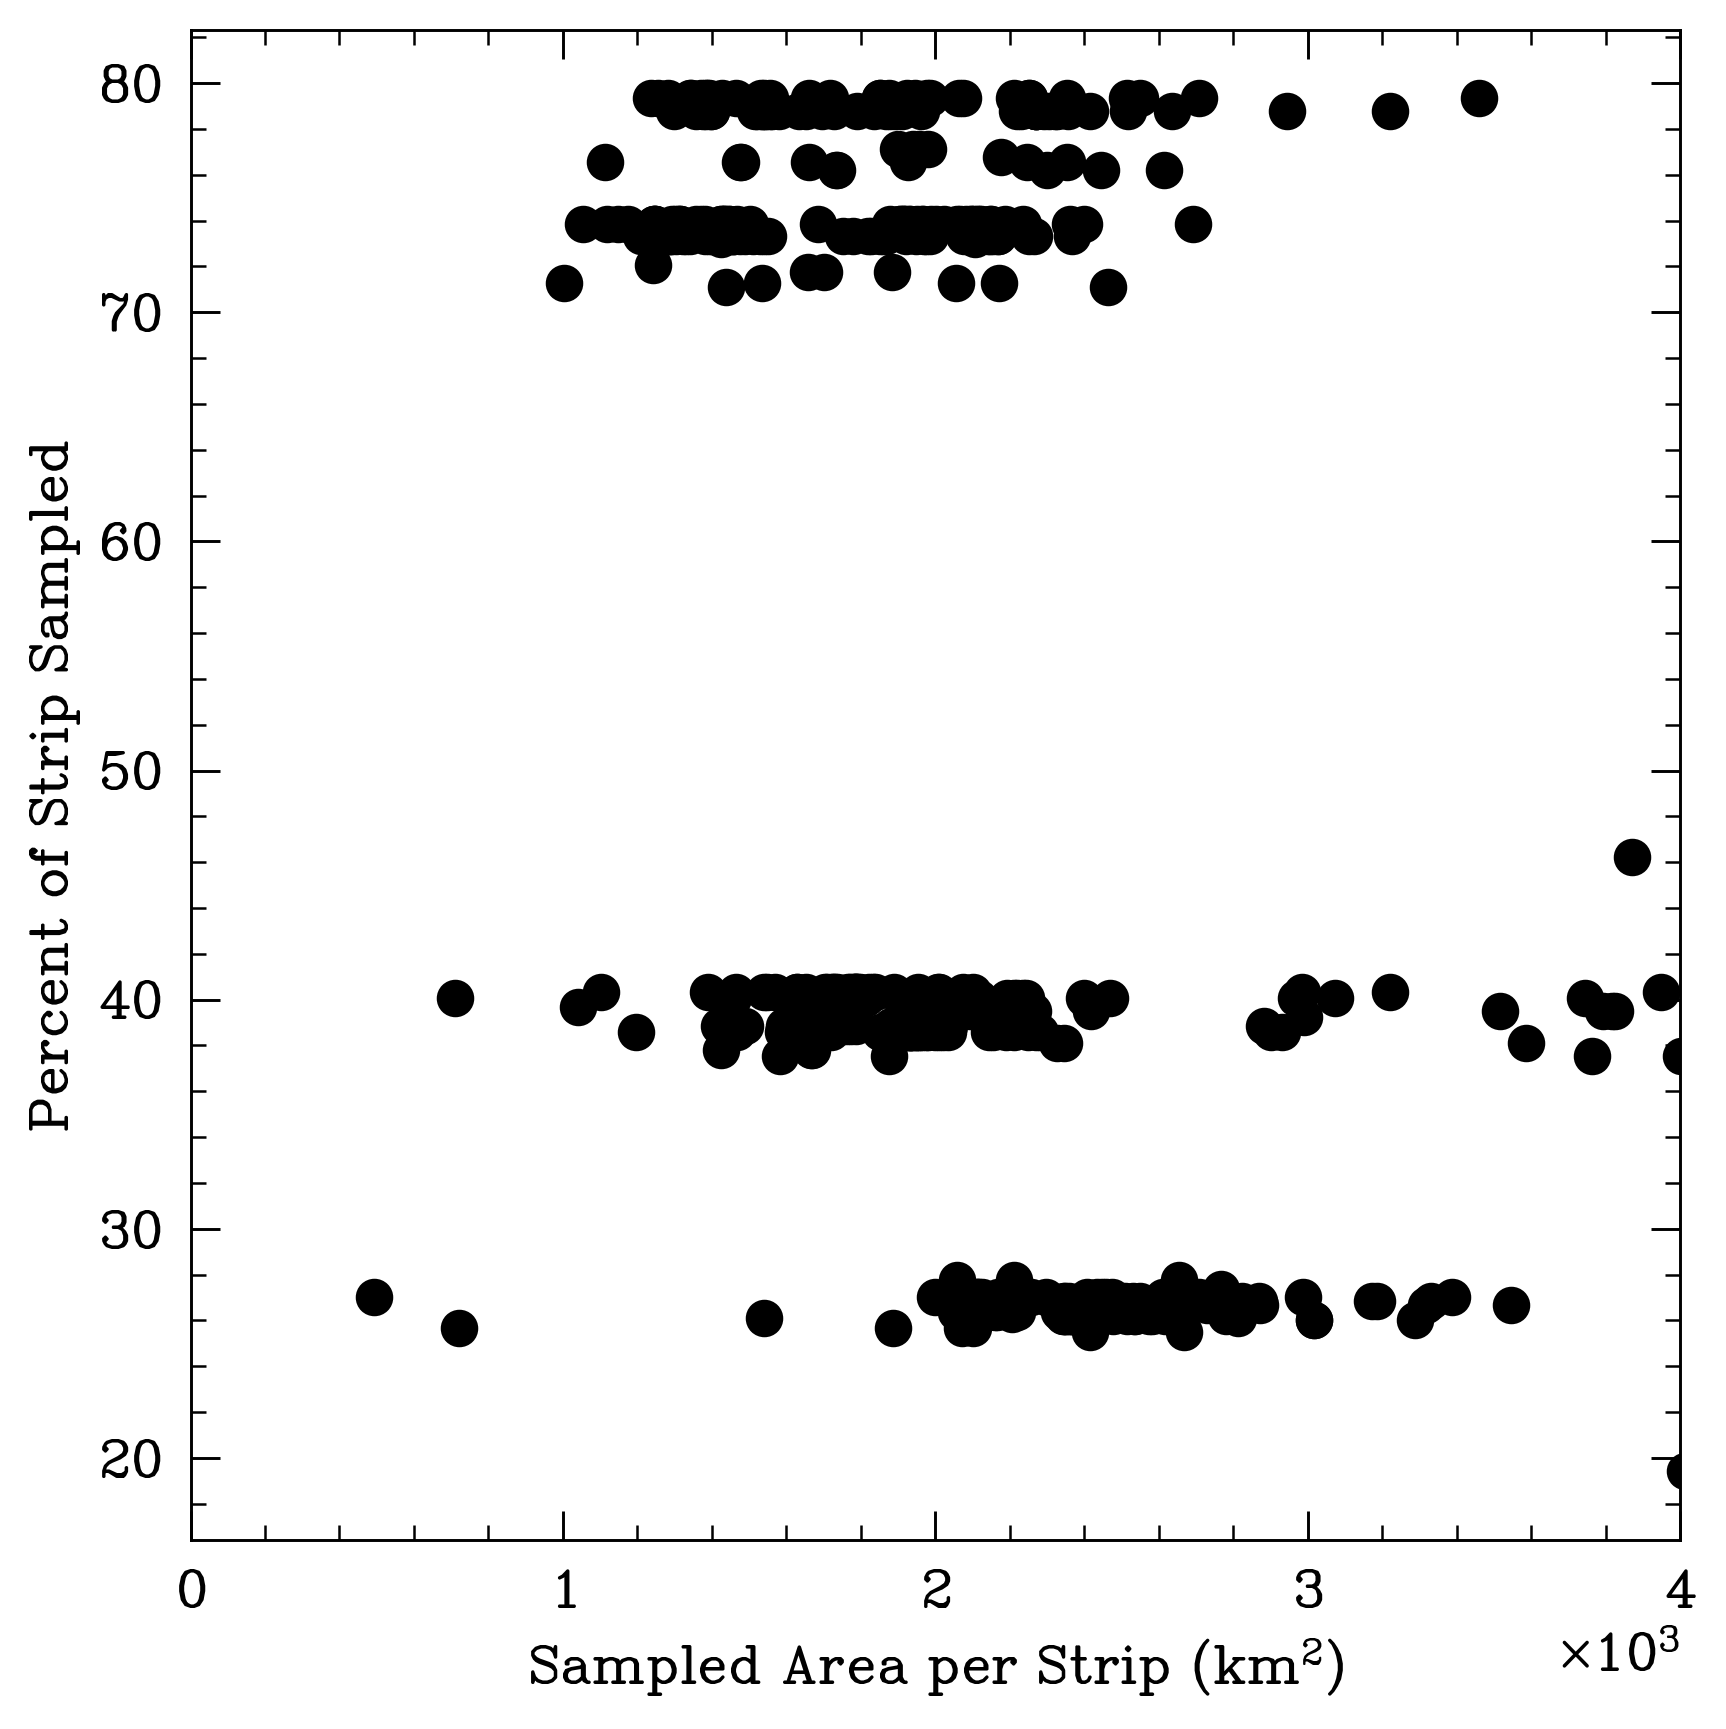
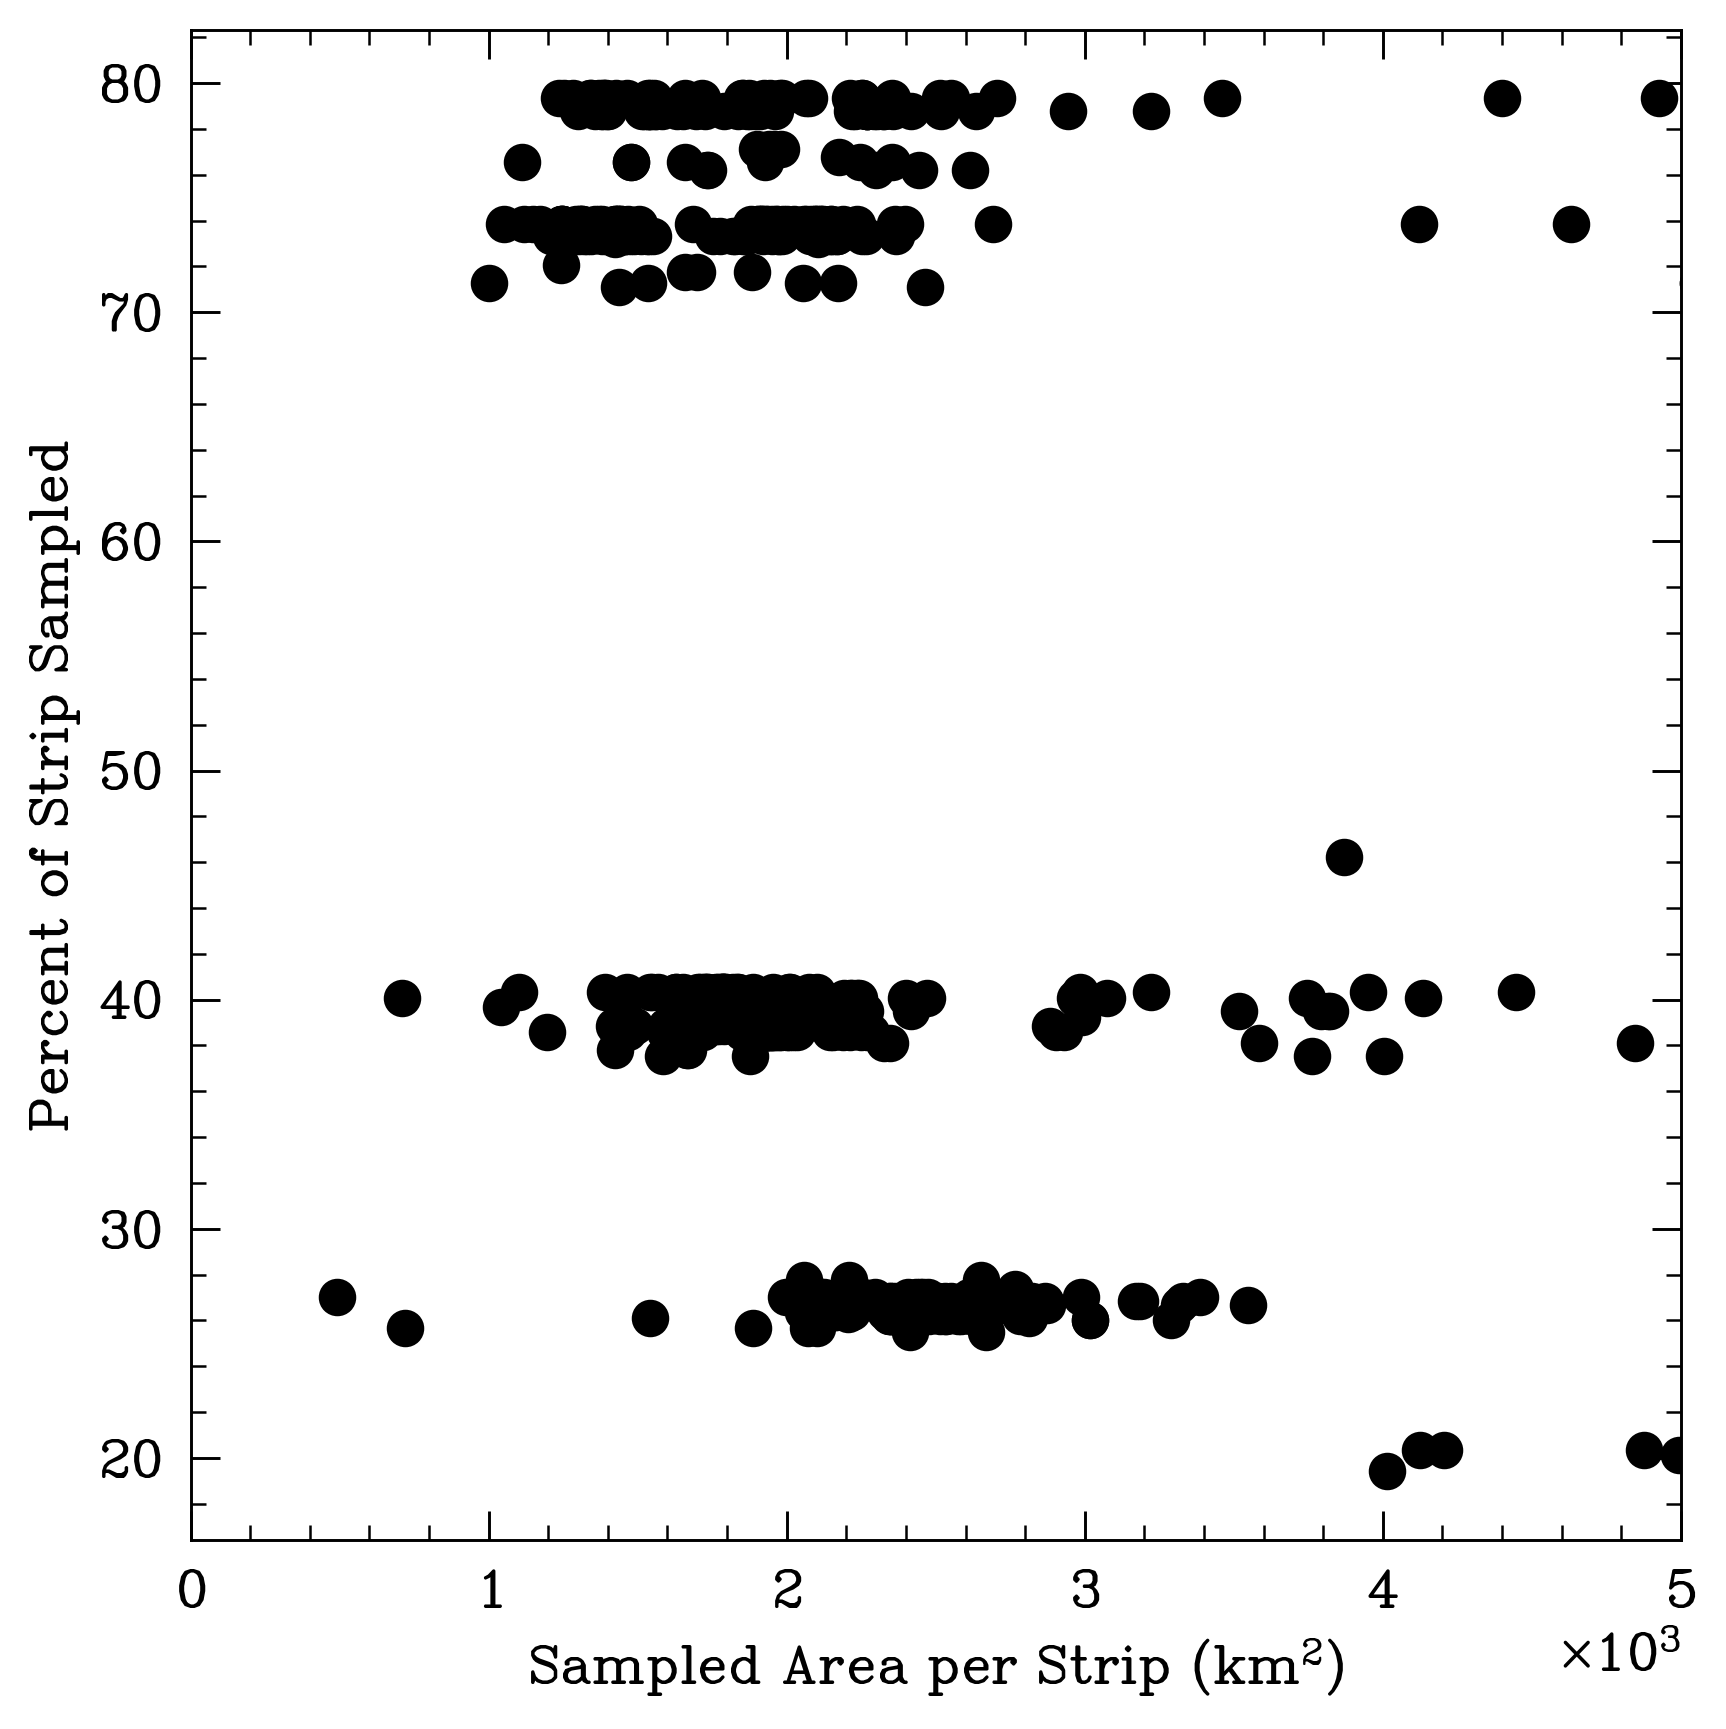
edge detection

diff --git a/code/monthly/feb2025/adjust_cloudcover_percent.py b/code/monthly/feb2025/adjust_cloudcover_percent.py
@@ -1,0 +1,89 @@
+def edge_detection(image_path, output_dir): 
+    import os 
+    import cv2
+    import numpy as np
+    import matplotlib.pyplot as plt
+
+    # Load the image
+    def detect_black_edges(image_path):
+        image = cv2.imread(image_path, cv2.IMREAD_GRAYSCALE)
+        
+        # Check if image was loaded correctly
+        if image is None:
+            raise ValueError("Error: Unable to load image. Check file path.")
+        
+        # Convert image to binary using adaptive thresholding
+        _, binary_adaptive = cv2.threshold(image, 0, 255, cv2.THRESH_BINARY + cv2.THRESH_OTSU)
+
+        # Find contours of the largest non-black region
+        contours, _ = cv2.findContours(binary_adaptive, cv2.RETR_EXTERNAL, cv2.CHAIN_APPROX_SIMPLE)
+        
+        # Handle case where no contours are found
+        if not contours:
+            plt.figure(figsize=(6, 6))
+            plt.imshow(binary_adaptive, cmap='gray')
+            plt.title("No contours found. Check thresholding.")
+            plt.show()
+            raise ValueError("No contours detected. Check image content or thresholding.")
+        
+        # Find bounding box of the largest contour (assuming it's the image content)
+        largest_contour = max(contours, key=cv2.contourArea)
+        x, y, w, h = cv2.boundingRect(largest_contour)
+
+        # Refine left edge detection using a moving window approach
+        col_sums = np.sum(binary_adaptive, axis=0)  # Sum along columns
+
+        # Define a more strict threshold to avoid stopping on small bright areas (e.g., text)
+        threshold = np.max(col_sums) * 0.3  # Adjust to be stricter
+        left_edge = x  # Default to bounding box edge
+        for i in range(x, len(col_sums)):  # Start searching from initial left bound x
+            if col_sums[i] > threshold:  # Find first column where intensity sum exceeds threshold
+                left_edge = i
+                break
+
+        # Keep right, top, and bottom edges as detected
+        right_edge = x + w
+
+        # Adjust vertical bounds based on the further one from the image border
+        img_height = image.shape[0]
+        top_distance = y  # Distance of detected top edge from image top
+        bottom_distance = img_height - (y + h)  # Distance of detected bottom edge from image bottom
+        max_distance = max(top_distance, bottom_distance)
+        top_edge = max_distance
+        bottom_edge = img_height - max_distance
+
+        return left_edge, right_edge, top_edge, bottom_edge
+
+    # Path to the uploaded image
+    left_edge, right_edge, top_edge, bottom_edge = detect_black_edges(image_path)
+
+    # Load image for visualization
+    image_color = cv2.imread(image_path)
+    cv2.line(image_color, (left_edge, 0), (left_edge, image_color.shape[0]), (0, 0, 255), 2)  # Left edge
+    cv2.line(image_color, (right_edge, 0), (right_edge, image_color.shape[0]), (255, 0, 0), 2)  # Right edge
+    cv2.line(image_color, (0, top_edge), (image_color.shape[1], top_edge), (0, 255, 0), 2)  # Top edge
+    cv2.line(image_color, (0, bottom_edge), (image_color.shape[1], bottom_edge), (255, 255, 0), 2)  # Bottom edge
+
+    # Display result
+    plt.figure(figsize=(8, 8))
+    plt.imshow(cv2.cvtColor(image_color, cv2.COLOR_BGR2RGB))
+    plt.title(f"Edges - Left: {left_edge}, Right: {right_edge}, Top: {top_edge}, Bottom: {bottom_edge}")
+    save_path = os.path.join(output_dir, image_path.split('/')[-1])
+    plt.savefig(save_path)
+
+    plt.clf()
+
+from tqdm import tqdm 
+image_paths = ['/Volumes/My Passport for Mac/khdata/khcloudnet/cloudnet-batch0/zipped-batches/batch_80/D3C1212-300564A013-0_4.png',
+               '/Volumes/My Passport for Mac/khdata/khcloudnet/cloudnet-batch0/zipped-batches/batch_80/D3C1213-100145F003-0_0.png',
+               '/Volumes/My Passport for Mac/khdata/khcloudnet/cloudnet-batch0/zipped-batches/batch_80/D3C1213-100159A034-0_4.png',
+               '/Volumes/My Passport for Mac/khdata/khcloudnet/cloudnet-batch0/zipped-batches/batch_79/D3C1201-400415A042-0_0.png',
+               '/Volumes/My Passport for Mac/khdata/khcloudnet/cloudnet-batch0/zipped-batches/batch_77/D3C1201-100007F013-0_14.png',
+               '/Volumes/My Passport for Mac/khdata/khcloudnet/cloudnet-batch0/zipped-batches/batch_76/D3C1215-401134A002-0_0.png',
+               '/Volumes/My Passport for Mac/khdata/khcloudnet/cloudnet-batch0/zipped-batches/batch_75/D3C1217-200765F006-0_0.png',
+               '/Volumes/My Passport for Mac/khdata/khcloudnet/cloudnet-batch0/zipped-batches/batch_74/D3C1206-100197A003-0_4.png',
+               '']
+output_dir = '/Users/tkiker/Documents/GitHub/khcloudnet/code/monthly/feb2025/edge-detection'
+
+for image_path in tqdm(image_paths): 
+    edge_detection(image_path, output_dir)

diff --git a/code/production/auto-annotate.py b/code/production/auto-annotate.py
@@ -7,12 +7,12 @@ import cv2
 from io import BytesIO
 import os
 
-def autoannotate_clouds(input_image, cutoff_level: int, min_size:int=75):
+def autoannotate_clouds(input_image, cutoff_level: int, min_size:int=200):
     """
     Generate a binary mask for cloud regions based on a cutoff level.
     """
 
-    data = np.array(input_image.convert('L'))  # Convert to grayscale
+    data = np.array(input_image.convert('L')) 
 
     # Create a binary mask based on the cutoff level
     binary_mask = np.where(data > cutoff_level, 255, 0).astype(np.uint8)
@@ -30,7 +30,7 @@ def autoannotate_clouds(input_image, cutoff_level: int, min_size:int=75):
     filtered_mask = np.zeros(binary_mask.shape, dtype=np.uint8)
     for label in range(1, num_labels):  # Start from 1 to skip the background label
         if component_sizes[label] >= min_size:
-            filtered_mask[labels_im == label] = 255  # Keep this component
+            filtered_mask[labels_im == label] = 255  
 
     return filtered_mask 
 
@@ -52,18 +52,16 @@ def plot_intensity_histogram(data, cutoff_level):
     st.pyplot(fig)
 
 def overlay_images(original_image, binary_mask):
-    # Convert to RGBA
     original_image = original_image.convert("RGBA")
     
     # Create a mask with white (255, 255, 255) for mask areas and transparent background
-    mask_rgba = np.zeros((*binary_mask.shape, 4), dtype=np.uint8)  # Initialize RGBA mask
+    mask_rgba = np.zeros((*binary_mask.shape, 4), dtype=np.uint8)  
     mask_rgba[binary_mask == 255, :3] = [255, 0, 0]  # Red for mask
     mask_rgba[binary_mask == 255, 3] = 75  # Fully opaque where mask exists
     mask_rgba[binary_mask == 0, 3] = 0  # Fully transparent for background
 
     mask_rgba_img = Image.fromarray(mask_rgba, 'RGBA')
 
-    # Overlay the mask on top of the original image with transparency
     blended_image = Image.alpha_composite(original_image, mask_rgba_img)
     return blended_image
 
@@ -91,7 +89,7 @@ if uploaded_file is not None:
     # Update histogram dynamically as the slider moves
     plot_intensity_histogram(grayscale_image, slider_value)
 
-    # Add a button to recalculate the mask
+    # Recalculate the mask
     if st.button("Calculate Cloud Mask"):
         # Step 3: Generate the binary mask for clouds
         binary_mask = autoannotate_clouds(image, slider_value)
@@ -110,7 +108,7 @@ if uploaded_file is not None:
             mask_img = Image.fromarray(binary_mask)
             st.image(mask_img, caption="Binary Mask (Clouds)", use_column_width=True)
 
-        # Step 4: Overlay the mask on the original image and display it below
+        # Step 4: Overlay the mask on the original image and display it
         st.subheader("Overlay of Original Image and Cloud Mask")
         overlay_image = overlay_images(image, binary_mask)
         st.image(overlay_image, caption="Original Image with Cloud Mask Overlay", use_column_width=True)

diff --git a/code/monthly/jan2025/prepping-training-data/main.py b/code/monthly/jan2025/prepping-training-data/main.py
@@ -303,18 +303,18 @@ def incorporate_thresholded_masks(threshold_dir:str='/Volumes/My Passport for Ma
     # Estimate Ground Coverage and Make Summary Plots
 
     plt.hist(areas)
-    plt.xlabel('Cutout Annotation Area (Pixels)')
+    plt.xlabel('Cutout Annotation Area (Pixels)', fontsize='large')
     plt.yscale('log')
-    plt.ylabel('Count')
+    plt.ylabel('Count', fontsize='large')
     plt.tight_layout()
     plt.savefig(os.path.join(plot_dir, 'coverage-hist-pixelcount.png'), dpi=300)
     plt.clf()
 
     coverage_percentages = 100*np.array(cloud_pixel_counts)/original_cutout_length**2
     plt.hist(coverage_percentages)
-    plt.xlabel(r'Cutout Cloud Cover (%)')
+    plt.xlabel(r'Cutout Cloud Cover (%)', fontsize='large')
     plt.yscale('log')
-    plt.ylabel('Count')
+    plt.ylabel('Count', fontsize='large')
     plt.tight_layout()
     plt.savefig(os.path.join(plot_dir, 'coverage-hist-percent.png'), dpi=300)
     plt.clf()
@@ -346,9 +346,9 @@ def incorporate_thresholded_masks(threshold_dir:str='/Volumes/My Passport for Ma
         covered_area_percentages.append(100*area_factor)
 
     plt.scatter(covered_area_kmsqs, covered_area_percentages)
-    plt.xlabel(r'Sampled Area per Strip (km$^2$)')
+    plt.xlabel(r'Sampled Area per Strip (km$^2$)', fontsize='large')
     plt.xlim(0, 0.2*25000)
-    plt.ylabel(r'Percent of Strip Sampled')
+    plt.ylabel(r'Percent of Strip Sampled', fontsize='large')
     plt.tight_layout()
     plt.savefig(os.path.join(plot_dir, 'coverage-scatter.png'), dpi=300)
     plt.clf()

diff --git a/code/monthly/jan2025/prepping-training-data/utils.py b/code/monthly/jan2025/prepping-training-data/utils.py
@@ -1,0 +1,29 @@
+
+def combine_masks(path_one, path_two):
+    import numpy as np 
+    import os 
+    from PIL import Image
+
+    if os.path.exists(path_one) and os.path.exists(path_two): 
+        threshold_image_arr = np.array(Image.open(path_two).convert('L'))
+        batch_image_arr = np.array(Image.open(path_one).convert('L'))
+
+        mask = batch_image_arr<0.5
+        batch_image_arr[mask] = 0
+        batch_image_arr[~mask] = 255
+
+        mask = threshold_image_arr > 100
+        threshold_image_arr[mask] = 255
+        threshold_image_arr[~mask] = 0
+
+        merged = np.where(np.logical_or(batch_image_arr == 255, threshold_image_arr == 255), 255, 0)
+
+        #os.remove(path_two)
+        os.remove(path_two)
+
+        # Save the image as PNG without compression
+        Image.fromarray(merged.astype(np.uint8)).save(path_one, format="PNG", compress_level=0)
+
+path_one = '/Users/tkiker/Downloads/D3C1203-200258A009-0_2-cloud-mask.png'
+path_two = '/Users/tkiker/Downloads/D3C1203-200258A009-0_2-cloud-mask-2.png'
+combine_masks(path_one, path_two)

diff --git a/code/monthly/jan2025/prepping-training-data/get-statistics.py b/code/monthly/jan2025/prepping-training-data/get-statistics.py
@@ -103,11 +103,7 @@ def get_statistics(masks_dir:str='/Volumes/My Passport for Mac/khdata/khcloudnet
 
 get_statistics()
 
-
 ## for some reason, D3C1214-300719F004-0_3.png is causing problems (mask can't be read even though I can open it in finder??)
-                    
-
-
 
 '''
 cloud coverage of cutouts: Mean (%): 17.73680295241116, STD (%): 28.522967619583444

diff --git a/README.md b/README.md
@@ -7,3 +7,12 @@ Between the 1960s and 1980s, the CIA captured thousands of extraordinarily high-
 One major challenge researchers face when using this database is selecting which film rolls to purchase. The USGS does not provide estimates of cloud cover on the film strips, forcing researchers to manually inspect each image to ensure it is usable, a time-consuming and inefficient process.
 
 Our project aims to address this issue by analyzing the low-resolution scans to automatically estimate cloud cover. By doing so, we can help researchers more easily identify high-quality film strips with minimal cloud coverage, making their selection process more efficient and cost-effective. We will achieve this by downloading a subset of the low-resolution "browse" scans and training a UNet machine learning model to segment and detect cloud coverage in the images. Once we have trained our UNet model, we will calculate the cloud coverage on the entireity of the dataset, publish our results, and contact USGS for them to incorporate our results into their data selection portal. 
+
+
+## Notes 
+
+### February 11th 
+
+- Thought about paper: maybe we can produce some sort of criterion for concentration of clouds in an image, so like 15% all in one corner is different than 15% evenly distributed? 
+
+- 
